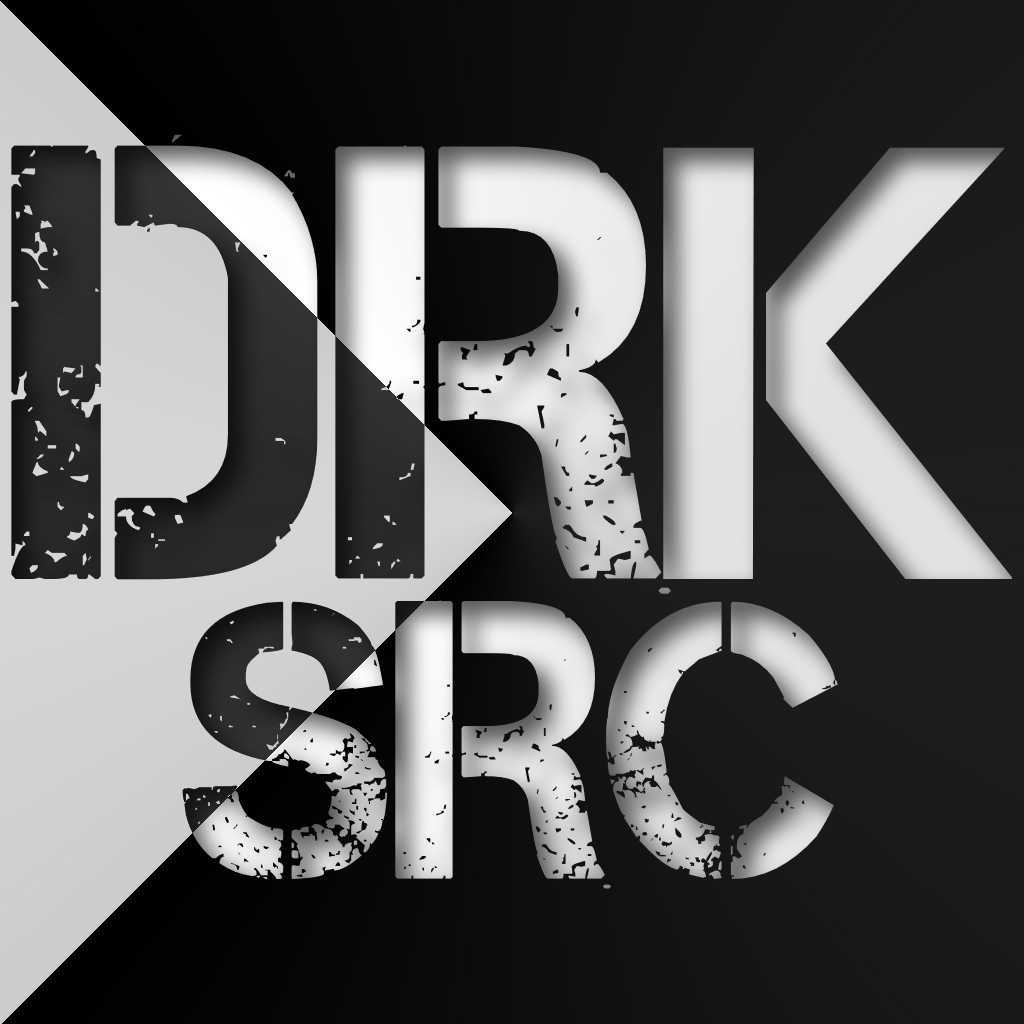
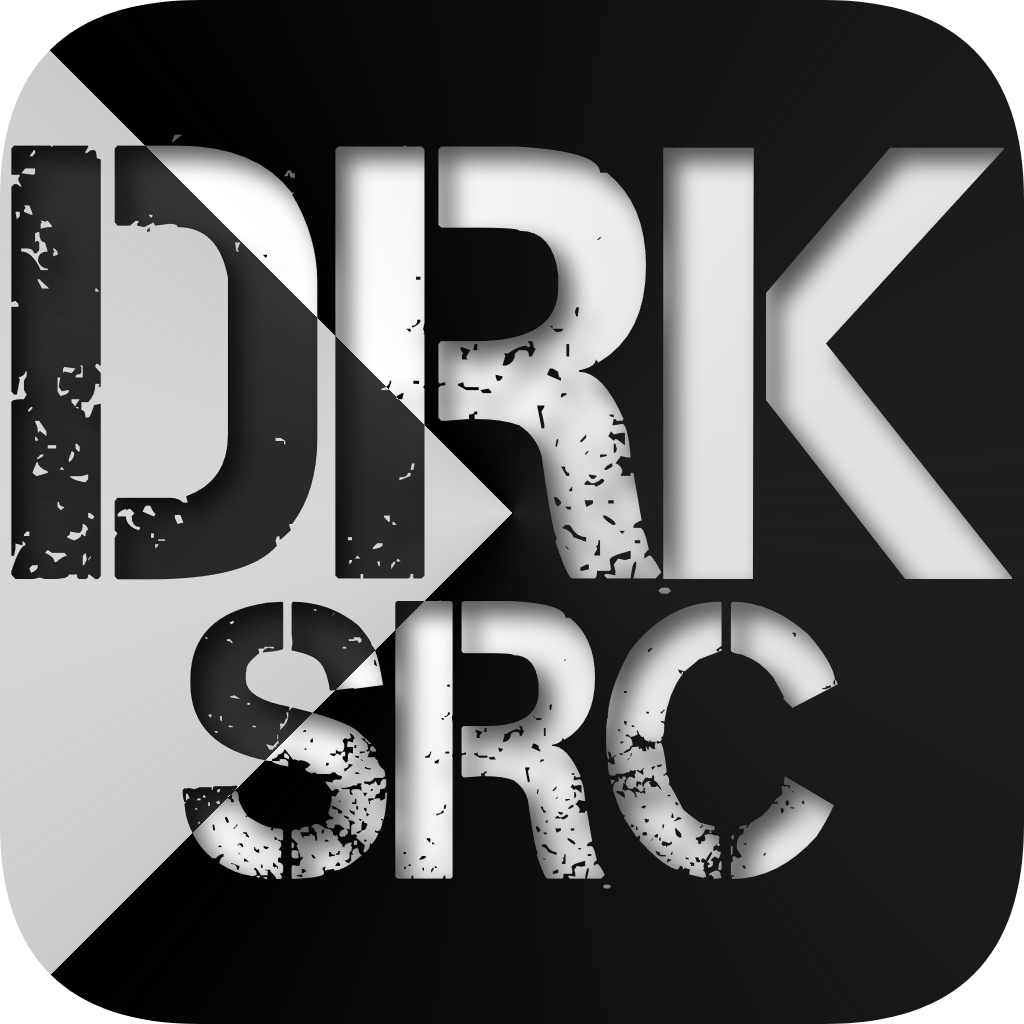
Update README.md for improved clarity and presentation

diff --git a/README.md b/README.md
@@ -1,8 +1,10 @@
 # DRKSRC
 
 <div align="center">
-  <img src="assets/DRKSRC.png" alt="DRKSRC Logo" width="120" style="border-radius: 25px;"/>
-  <h3>Your Fav Source for iOS Apps</h3>
+  
+<img src="assets/DRKSRC.png" width="200" alt="DRKSRC Logo"/>
+
+### Quality iOS Apps, Made Simple 🎉
 
   <p>
     <a href="https://github.com/DRKCTRL/DRKSRC/stargazers">
@@ -29,23 +31,51 @@
   </p>
 </div>
 
-DRKSRC is a curated collection of the community's most essential and popular iOS apps and utilities. This repository serves as a centralized platform for discovering and downloading various iOS applications.
+Welcome to DRKSRC! We've created a curated collection of the best iOS apps and utilities that the community actually uses and trusts. Whether you're new to iOS or a seasoned expert, you'll find something brilliant here.
 
-## 🚀 Features
+## 🚀 What Makes DRKSRC Different
 
-- Curated collection of essential iOS apps and utilities
-- Easy to browse app catalog
-- Detailed app information and screenshots
-- Compatible with popular iOS package managers
-- Regular updates with new apps
+- 📱 **Quality First**: Each app is carefully reviewed and tested
+- 🎯 **Straightforward**: Works immediately with your chosen package manager
+- 🔄 **Always Current**: Regular updates with the latest releases
+- 🛠 **Reliable**: Focused on stable, well-maintained applications
+- 💪 **Community Tested**: Built on real user experience
 
-## 📱 Available Apps
+## 📲 Getting Started
 
-The DRKSRC repository contains many fan favourite apps such as (but not limited to) Bootstrap, Filza, Cowabunga, and Geranium...
+Adding DRKSRC to your setup is simple - just choose your preferred platform:
 
-## 🤝 Submit Your App
+  <p style="display: flex; gap: 10px; justify-content: center; flex-wrap: wrap;">
+    <a href="https://fwuf.in/#/esign://addsource?url=https://raw.githubusercontent.com/DRKCTRL/DRKSRC/main/repo.json">
+      <img src="https://img.shields.io/badge/Add%20to%20ESign-%20blue?style=for-the-badge&color=1e90ff" alt="Add to ESign">
+    </a>
+    <a href="https://appdb.to/repos/import?url=https://raw.githubusercontent.com/DRKCTRL/DRKSRC/main/repo.json">
+      <img src="https://img.shields.io/badge/Add%20to%20Appdb-%20blue?style=for-the-badge&color=0048ba" alt="Add to Appdb">
+    </a>
+    <a href="https://fwuf.in/#/trollapps://add?url=https://raw.githubusercontent.com/DRKCTRL/DRKSRC/main/repo.json">
+      <img src="https://img.shields.io/badge/Add%20to%20TrollApps-%20blue?style=for-the-badge&color=B85CFD" alt="Add to TrollApps">
+    </a>
+    <a href="https://s0n1c.ca/altlist/">
+      <img src="https://img.shields.io/badge/Use%20on%20AltList-%20black?style=for-the-badge&color=0f7c7f" alt="Use on AltList">
+    </a>
+  </p>
 
-Want to suggest an app for DRKSRC? Here's how:
+## 🌟 Featured Applications
+
+Here's what you'll find in our collection:
+
+- **Bootstrap** - Essential iOS customisation tools
+- **Filza** - Advanced file management
+- **Cowabunga** - Unlock your device's full potential
+- **Geranium** - Elegant device customisation
+
+And plenty more excellent apps to explore!
+
+## 🤝 Join In
+
+### Share Your Discoveries
+
+Found something excellent that belongs here?
 
 1. [Create a new issue](https://github.com/DRKCTRL/DRKSRC/issues/new) on GitHub
 2. Use the title format: `[App Request] Your App Name`
@@ -57,9 +87,13 @@ Want to suggest an app for DRKSRC? Here's how:
 
 We'll review your suggestion and add it to the repository if it meets our criteria!
 
-## 🤝 Contributing
+### Want to Contribute?
 
-Contributions are welcome! Please feel free to submit a Pull Request. For major changes, please open an issue first to discuss what you would like to change.
+We welcome your involvement:
+- Star the repository to show support ⭐
+- Submit improvements via pull requests
+- Share your feedback
+- Help other users in discussions
 
 ## 📄 License
 
@@ -68,5 +102,5 @@ This project is licensed under the MIT License - see the [LICENSE.md](LICENSE.md
 ---
 
 <div align="center">
-  Made with ❤ by DRKCTRL
+  Made with ❤ by DRKCTRL and the amazing iOS community
 </div>
